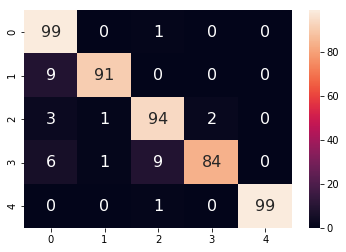
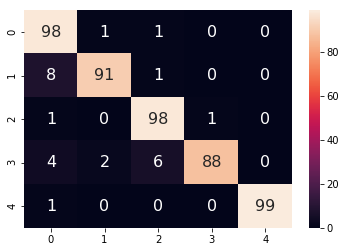
Update discussion and plots

diff --git a/README.md b/README.md
@@ -33,7 +33,7 @@ Since the model operates on segmented heartbeat samples, we can use a bidirectio
 
 #### Bayesian Model
 
-This model used the same network architecture as the convolutional (CNN) model above. However, the weights were stochastic, and posterior distributions of weights were trained using the Flipout method \(Wen, Vicol, Ba, Tran, \& Grosse, 2018\)[https://arxiv.org/abs/1803.04386].
+This model used the same network architecture as the convolutional (CNN) model above. However, the weights were stochastic, and posterior distributions of weights were trained using the Flipout method [\(Wen, Vicol, Ba, Tran, \& Grosse, 2018\)](https://arxiv.org/abs/1803.04386).
 
 ### Training
 The CNN and RNN models were trained for 8000 parameter updates with a mini-batch size of 200 using the Adam optimizer with exponential learning rate decay. See notebook for parameter values. The RNN model took about 10x longer to train (wall time) than the CNN model.
@@ -82,18 +82,20 @@ Confusion Matrix
  ![alt text](https://github.com/dave-fernandes/ECGClassifier/blob/master/images/CM-RNN.png "Confusion matrix for RNN classifier.")
 
 #### Bayesian Model
+For the Bayesian model, we obtain a Monte Carlo estimate for the most probable class. This class is then evaluated as above based on precision, recall, and the confusion matrix.
+
 ```
               precision    recall  f1-score   support
 
-           0       0.85      0.99      0.91       100
-           1       0.98      0.91      0.94       100
-           2       0.90      0.94      0.92       100
-           3       0.98      0.84      0.90       100
+           0       0.88      0.98      0.92       100
+           1       0.97      0.91      0.94       100
+           2       0.92      0.98      0.95       100
+           3       0.99      0.88      0.93       100
            4       1.00      0.99      0.99       100
 
-   micro avg       0.93      0.93      0.93       500
-   macro avg       0.94      0.93      0.93       500
-weighted avg       0.94      0.93      0.93       500
+   micro avg       0.95      0.95      0.95       500
+   macro avg       0.95      0.95      0.95       500
+weighted avg       0.95      0.95      0.95       500
  ```
 Confusion Matrix
 
@@ -103,8 +105,8 @@ Confusion Matrix
 #### CNN versus RNN
 The CNN model has 53,957 parameters and the RNN model has 240,293. Moreover, the serial nature of the RNN causes it to be less parallelizable than the CNN. Given that the CNN is slightly more accurate than the RNN, it provides an all-around better solution.
 
-#### Estimating Probabilities
-
+#### Maximum Likelihood versus Bayesian Estimate
+The Bayesian model has slightly better performance than the standard CNN model with its maximum likelihood estimate (MLE). However, due to the small test-set size, this difference in performance may not be statistically significant. Still, the KL-divergence term in the loss for the Bayesian model should have a regularizing effect and allow the BNN model to generalize better.
 
 ## Files
 * `PreprocessECG.ipynb` is a Jupyter notebook used to format and balance the data.
